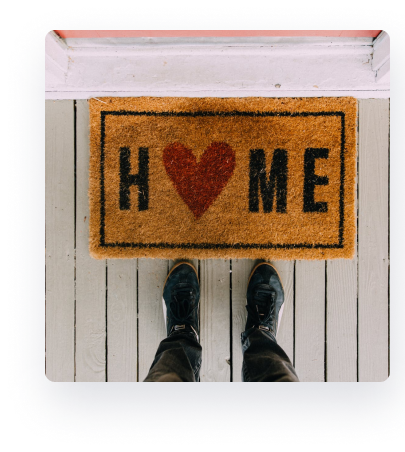
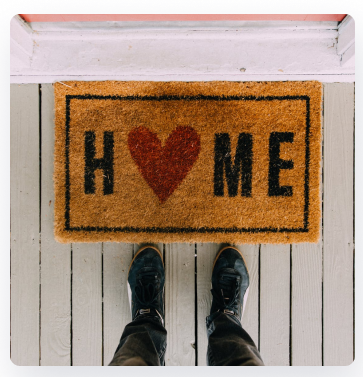
ft: fixup mobile & tab

diff --git a/public/assets/scss/_index.scss b/public/assets/scss/_index.scss
@@ -282,7 +282,6 @@ h5 .btn-link {
     display: inline-block;
 }
 
-
 /* big tablets */
 @media only screen and (max-width: 1024px) {
     header,
@@ -304,6 +303,7 @@ h5 .btn-link {
         top: 25%;
     }
 }
+
 /* medium sized devices ie. tablets */
 @media only screen and (max-width: 991.99px) {
     %heading-font-stack-mobile {
@@ -314,7 +314,7 @@ h5 .btn-link {
     }
     %button-stack-mobile {
         border-radius: 0.2rem;
-        padding: 0 3.8rem;
+        padding: 0.3rem 3.8rem;
     }
     header {
         padding-left: 0;
@@ -335,18 +335,13 @@ h5 .btn-link {
     .collapse {
         z-index: 100;
     }
-    .register {
-        color: $white !important;
-        background-color: $purple;
-        padding: 0.5rem 1.5rem !important;
-    }
     .holding {
         padding-left: 0;
         padding-right: 0;
         background-image: none;
         margin: auto;
         height: 60rem;
-        background-image: url('../img/holding-tab.png');
+        background-image: url('../img/backgrounds/holding-tab.png');
         background-size: 100% 100%;
         background-repeat: no-repeat;
 
@@ -362,7 +357,7 @@ h5 .btn-link {
             margin: auto !important;
         }
     }
-    .form-inline {
+    .index-form {
         text-align: center !important;
         margin: auto !important;
         padding: 1rem 5rem;
@@ -371,10 +366,10 @@ h5 .btn-link {
         @extend %button-stack-mobile;
     }
     .about {
-        padding-top: 1rem;
+        padding: 1rem 1.5rem 0;
 
         &-ball {
-            padding: 3.5rem 1rem 0;
+            padding: 3.5rem 0 0;
         }
         &-ball-text {
             font-size: 1rem;
@@ -432,19 +427,30 @@ h5 .btn-link {
     .questions {
         padding-right: 2rem;
     }
-    
 }
- /* small mobile devices */
- @media only screen and (max-width: 575.99px) {
-     .holding {
+
+/* small mobile devices */
+@media only screen and (max-width: 575.99px) {
+    .about-ball-heading,
+    .benefits-heading,
+    .how-heading,
+    .faq-heading,
+    .gallery-heading {
+        font-size: 1.8rem;
+        font-weight: 700;
+    }
+    .big-button {
+        width: 97%;
+    }
+    .holding {
         height: 50rem;
 
         &-form {
             padding: 0 1rem;
         }
     }
-    .form-inline {
-        padding: 1rem;
+    .index-form {
+        padding: 1rem 0;
         margin: auto;
         justify-content: center;
     }
@@ -455,10 +461,19 @@ h5 .btn-link {
         padding: 0.4rem;
         width: 90%;
     }
+    .about br {
+        display: none;
+    }
     .about-ball,
-    .home-tab {
+    .home-img {
         justify-content: center;
         text-align: center;
+    }
+    .home-tab {
+        display: block;
+        width: 22rem;
+        height: 18rem;
+        margin: auto;
     }
     .prev,
     .next {
@@ -474,10 +489,10 @@ h5 .btn-link {
     }
     .faq {
         &-card-heading {
-            font-size: 1.1rem;
+            font-size: 1.6rem;
         }
         &-icon {
-            font-size: 1.5rem;
+            font-size: 2.5rem;
         }
     }
     .how-heading,
@@ -488,16 +503,6 @@ h5 .btn-link {
         margin-left: unset;
     }
     .gallery {
-        padding: 4rem 1rem;
+        padding: 4rem 2rem;
     }
-    .footer {
-        justify-content: center;
-        text-align: center;
-        margin: auto;
-    }
-    .footer-info,
-    .logo-div {
-        padding-left: unset;
-        padding-right: unset;
-    }
- }
+}

diff --git a/public/assets/scss/_navbar.scss b/public/assets/scss/_navbar.scss
@@ -147,3 +147,25 @@ header {
         padding: 0.5rem 1.5rem !important;
     }
 }
+
+/* big tablets */
+@media only screen and (max-width: 1024px) {
+    header,
+    .holding,
+    .about,
+    .phone-div,
+    .faq {
+        padding-left: 3rem;
+    }
+    .benefits {
+        padding: 3rem;
+        height: 40rem;
+    }
+    .slide {
+        width: 13.5rem;
+    }
+    .prev,
+    .next {
+        top: 25%;
+    }
+}

diff --git a/public/index.php b/public/index.php
@@ -7,7 +7,7 @@
       <h6 class="holding-mid">We make owning a home simpler and achievable.</h6>
     </section>
 
-    <section class="col-lg-8 col-md-11 col-12 holding-form">
+    <section class="col-lg-8 col-11 holding-form">
       <form class="form-inline index-form">
         <label class="sr-only" for="location">Location</label>
         <div class="input-group col-lg-4 col-sm-12">
@@ -44,6 +44,10 @@
 
   <!-- About Ball -->
   <section class="about-ball row">
+    <div class="col-lg-6 col-12"></div>
+    <div class="col-lg-6 col-12 about">
+      <h6 class="about-ball-title">ABOUT BALL</h6>
+    </div>
     <div class="col-sm-6 col-12 text-center home-img">
       <img src="./assets/img/home.png" class="home" alt="home image">
       <img src="./assets/img/home-tab.png" class="home-tab" alt="home image">
@@ -134,8 +138,8 @@
           <p class="how-text">Convert structure to extended mortgage plan at affordable rates from 6% per annum.</p>
         </div>
 
-        <div class="col-sm-2 col-12"></div>
-        <div class="col-sm-10 col-12">
+        <div class="col-2"></div>
+        <div class="col-10">
           <button class="btn btn-lg big-button">SIGN UP NOW</button>
         </div>
       </div>
